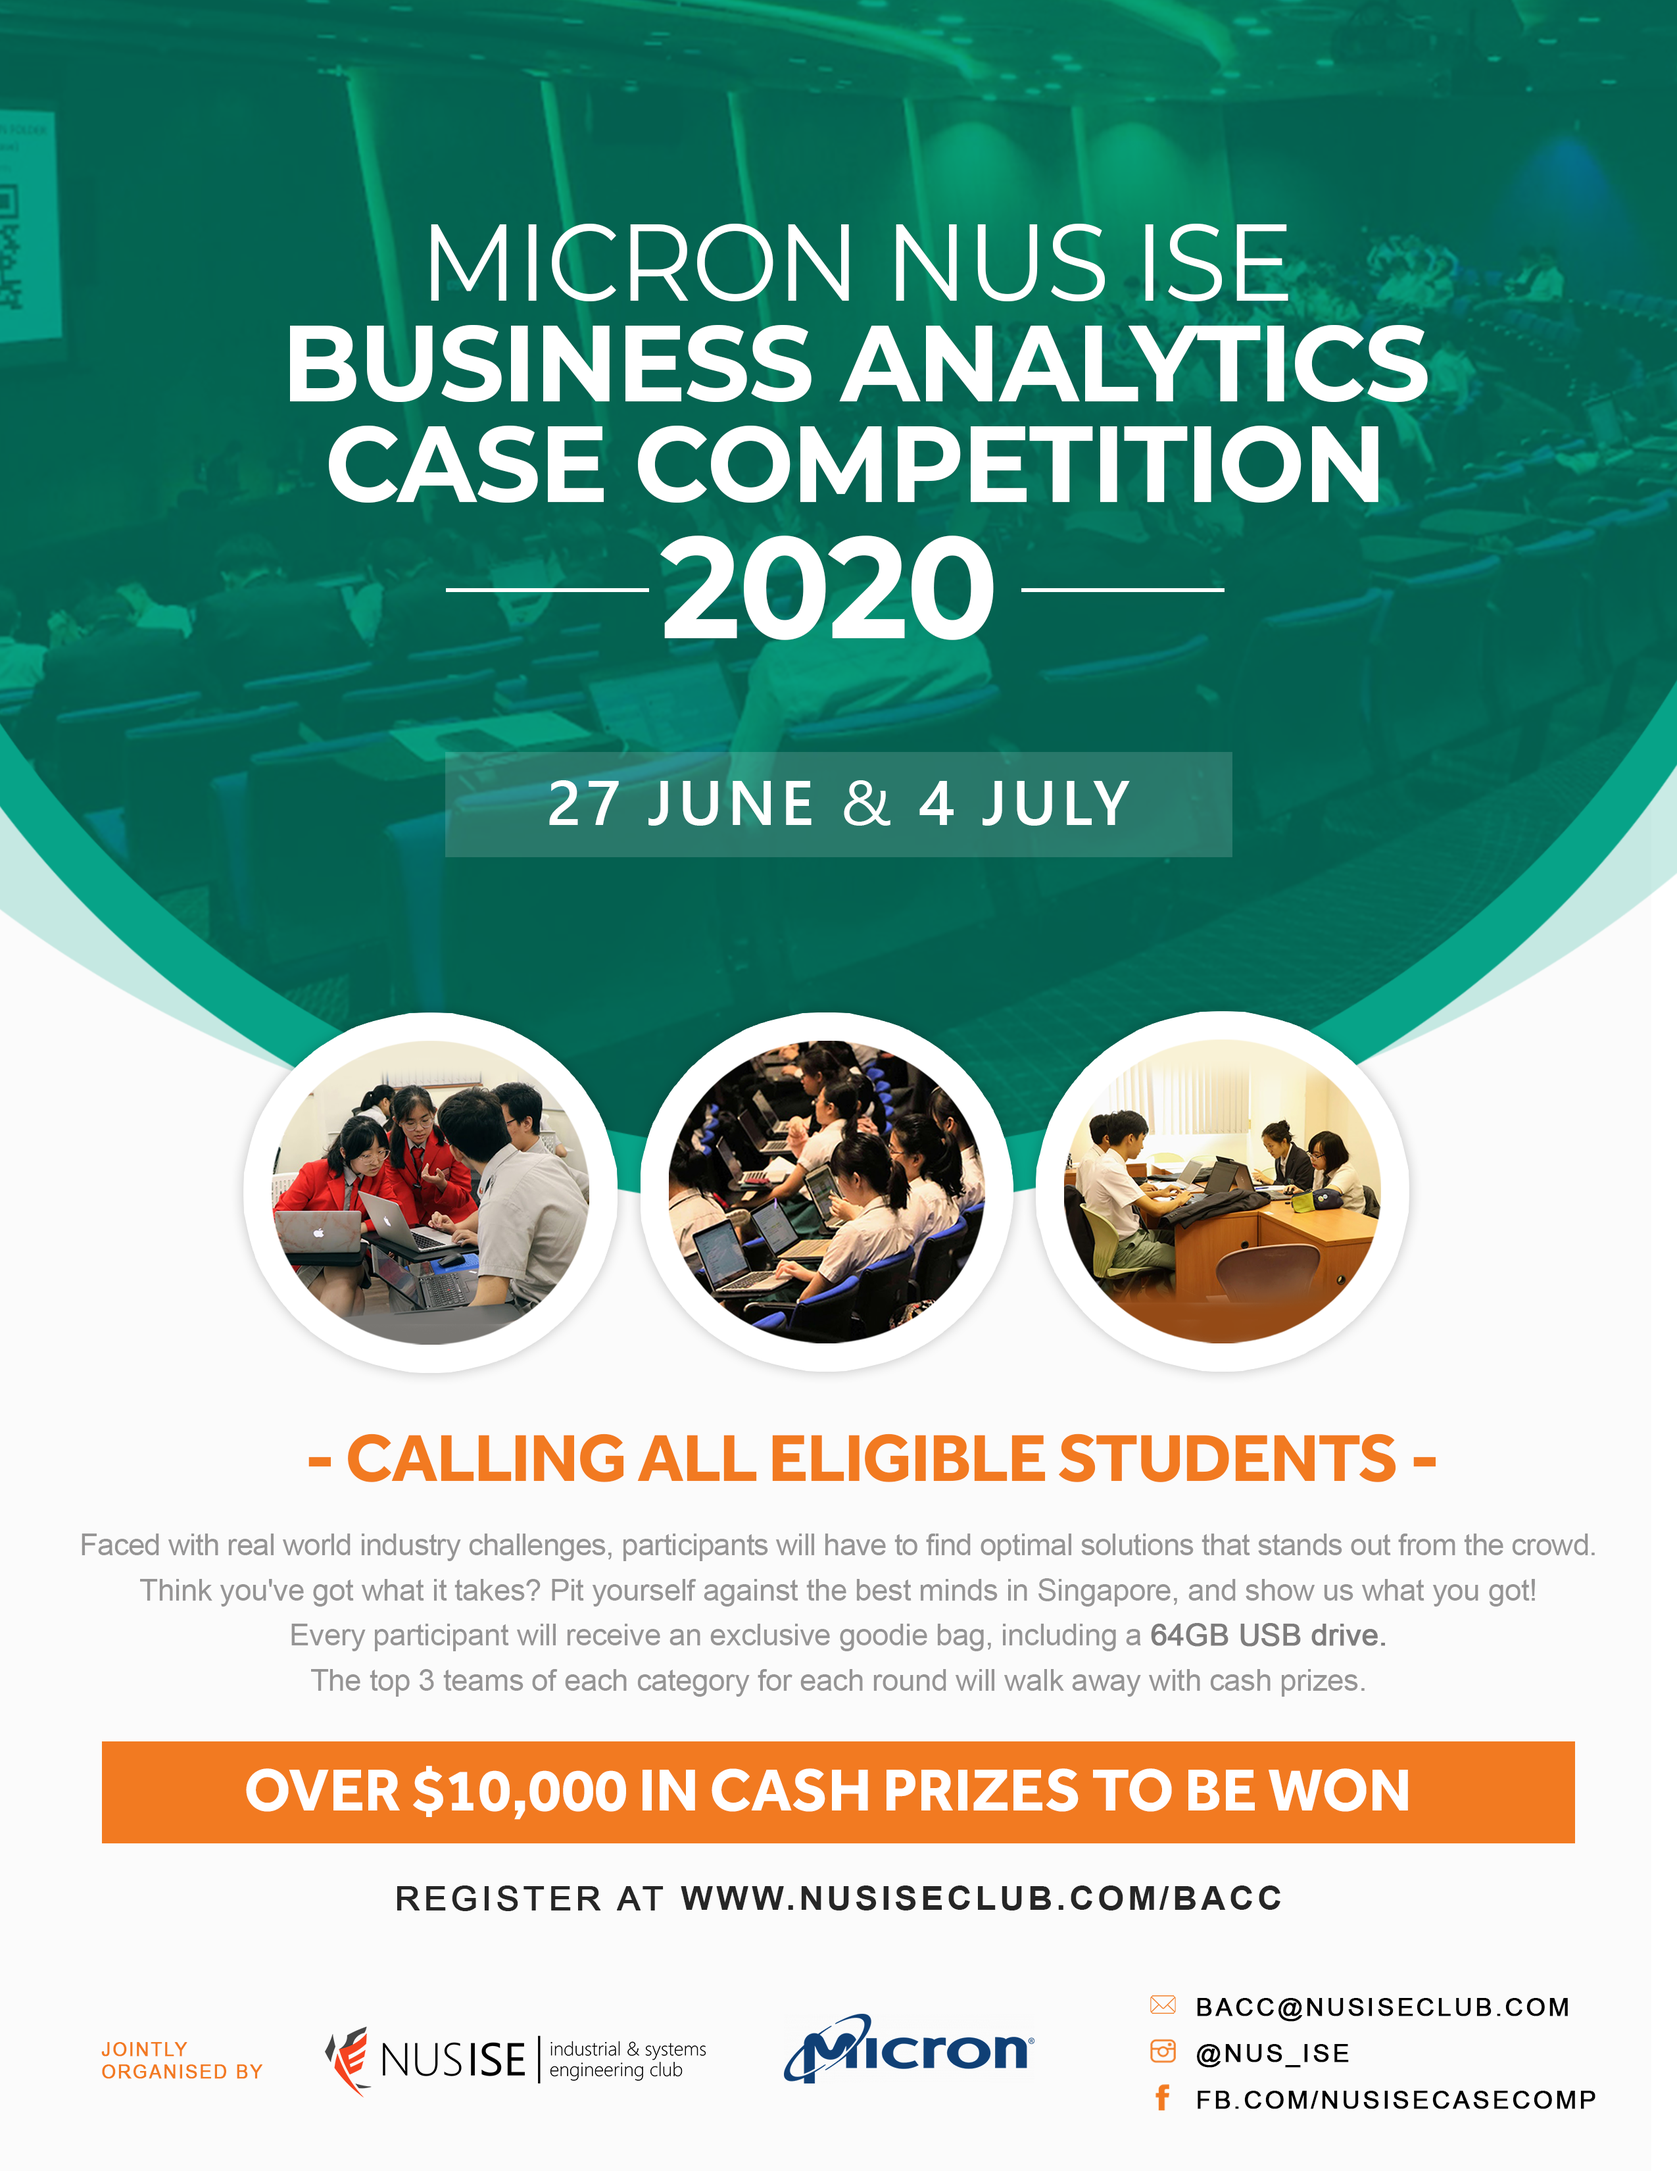
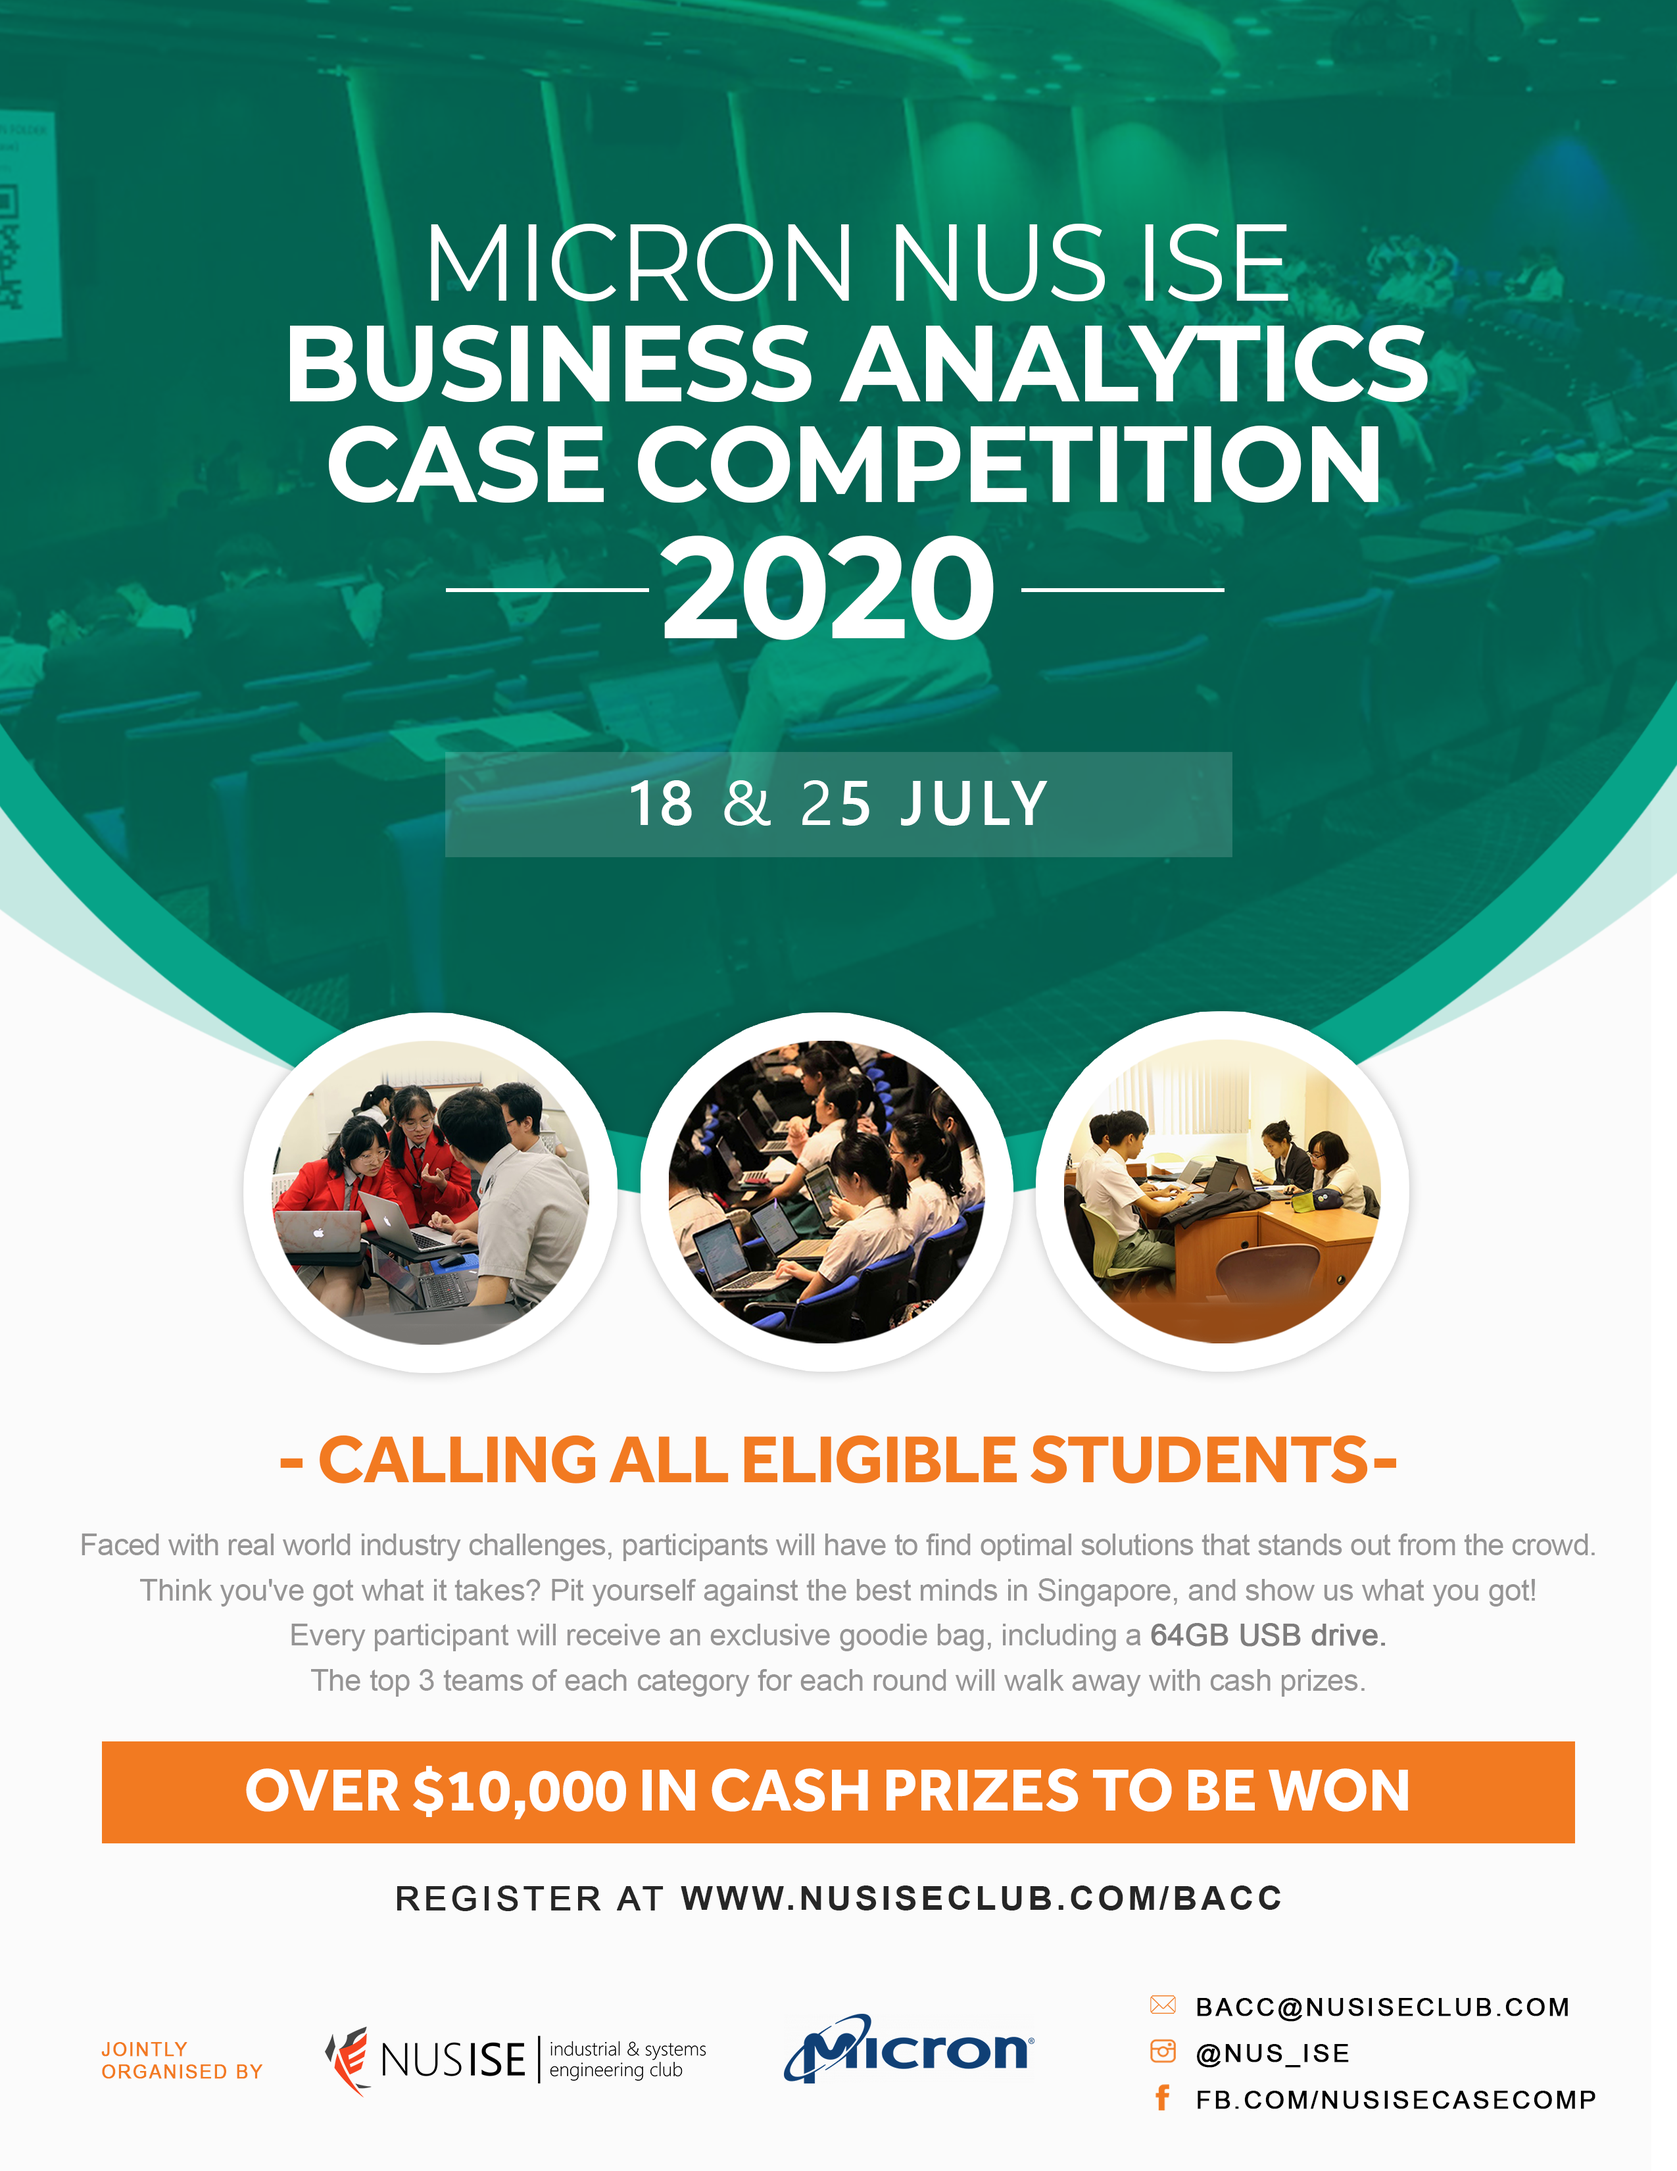
Updates

Changed region(s): [[0.1859, 0.6555, 0.8365, 0.6867], [0.3408, 0.3433, 0.6816, 0.3745]]

diff --git a/bacc.html b/bacc.html
@@ -18,7 +18,7 @@
 			<header id="header">
 				<div class="content">
 					<h1>Micron NUS ISE </br>Business Analytics </br>Case Competition 2020</a></h1>
-					<h6>27 June & 4 July</br> Registration now open</br> Over $10,000 in cash prizes up for grabs!</h6>
+					<h6>18 & 25 July</br> Registration now open</br> Over $10,000 in cash prizes up for grabs!</h6>
 					<ul class="actions">
 						<li><a href="https://forms.office.com/Pages/ResponsePage.aspx?id=Xu-lWwkxd06Fvc_rDTR-gkZKHQdy3QFMm820BxKz2OpUOTYzQTZUSllNQjVKVVJKTFFXVUpBSkJPSy4u" class="button primary icon solid">Sign Up Now</a></li>
 						<li><a href="#one" class="button icon solid fa-chevron-down scrolly">Learn More</a></li>
